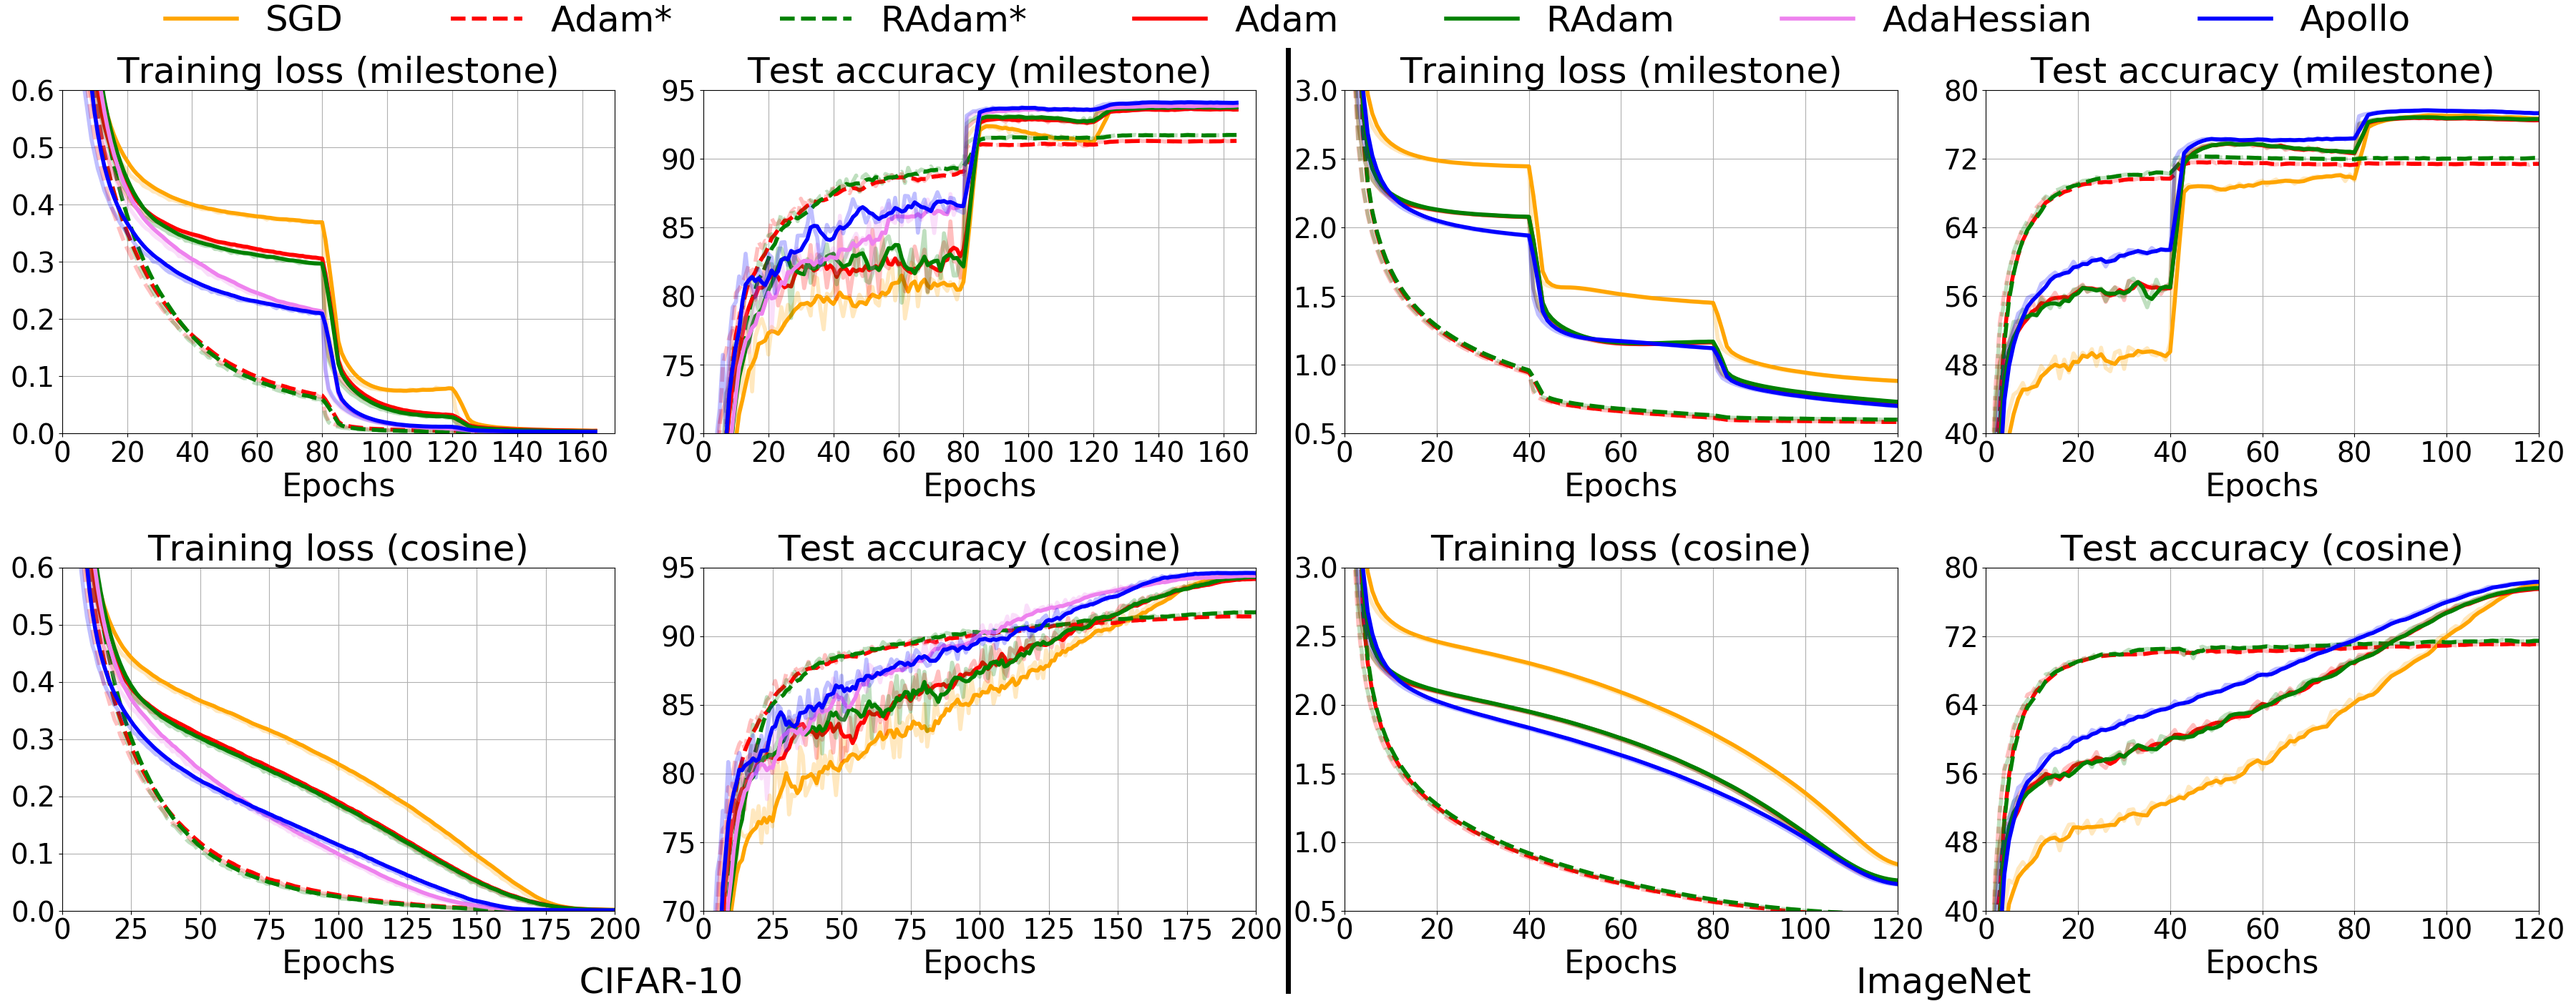
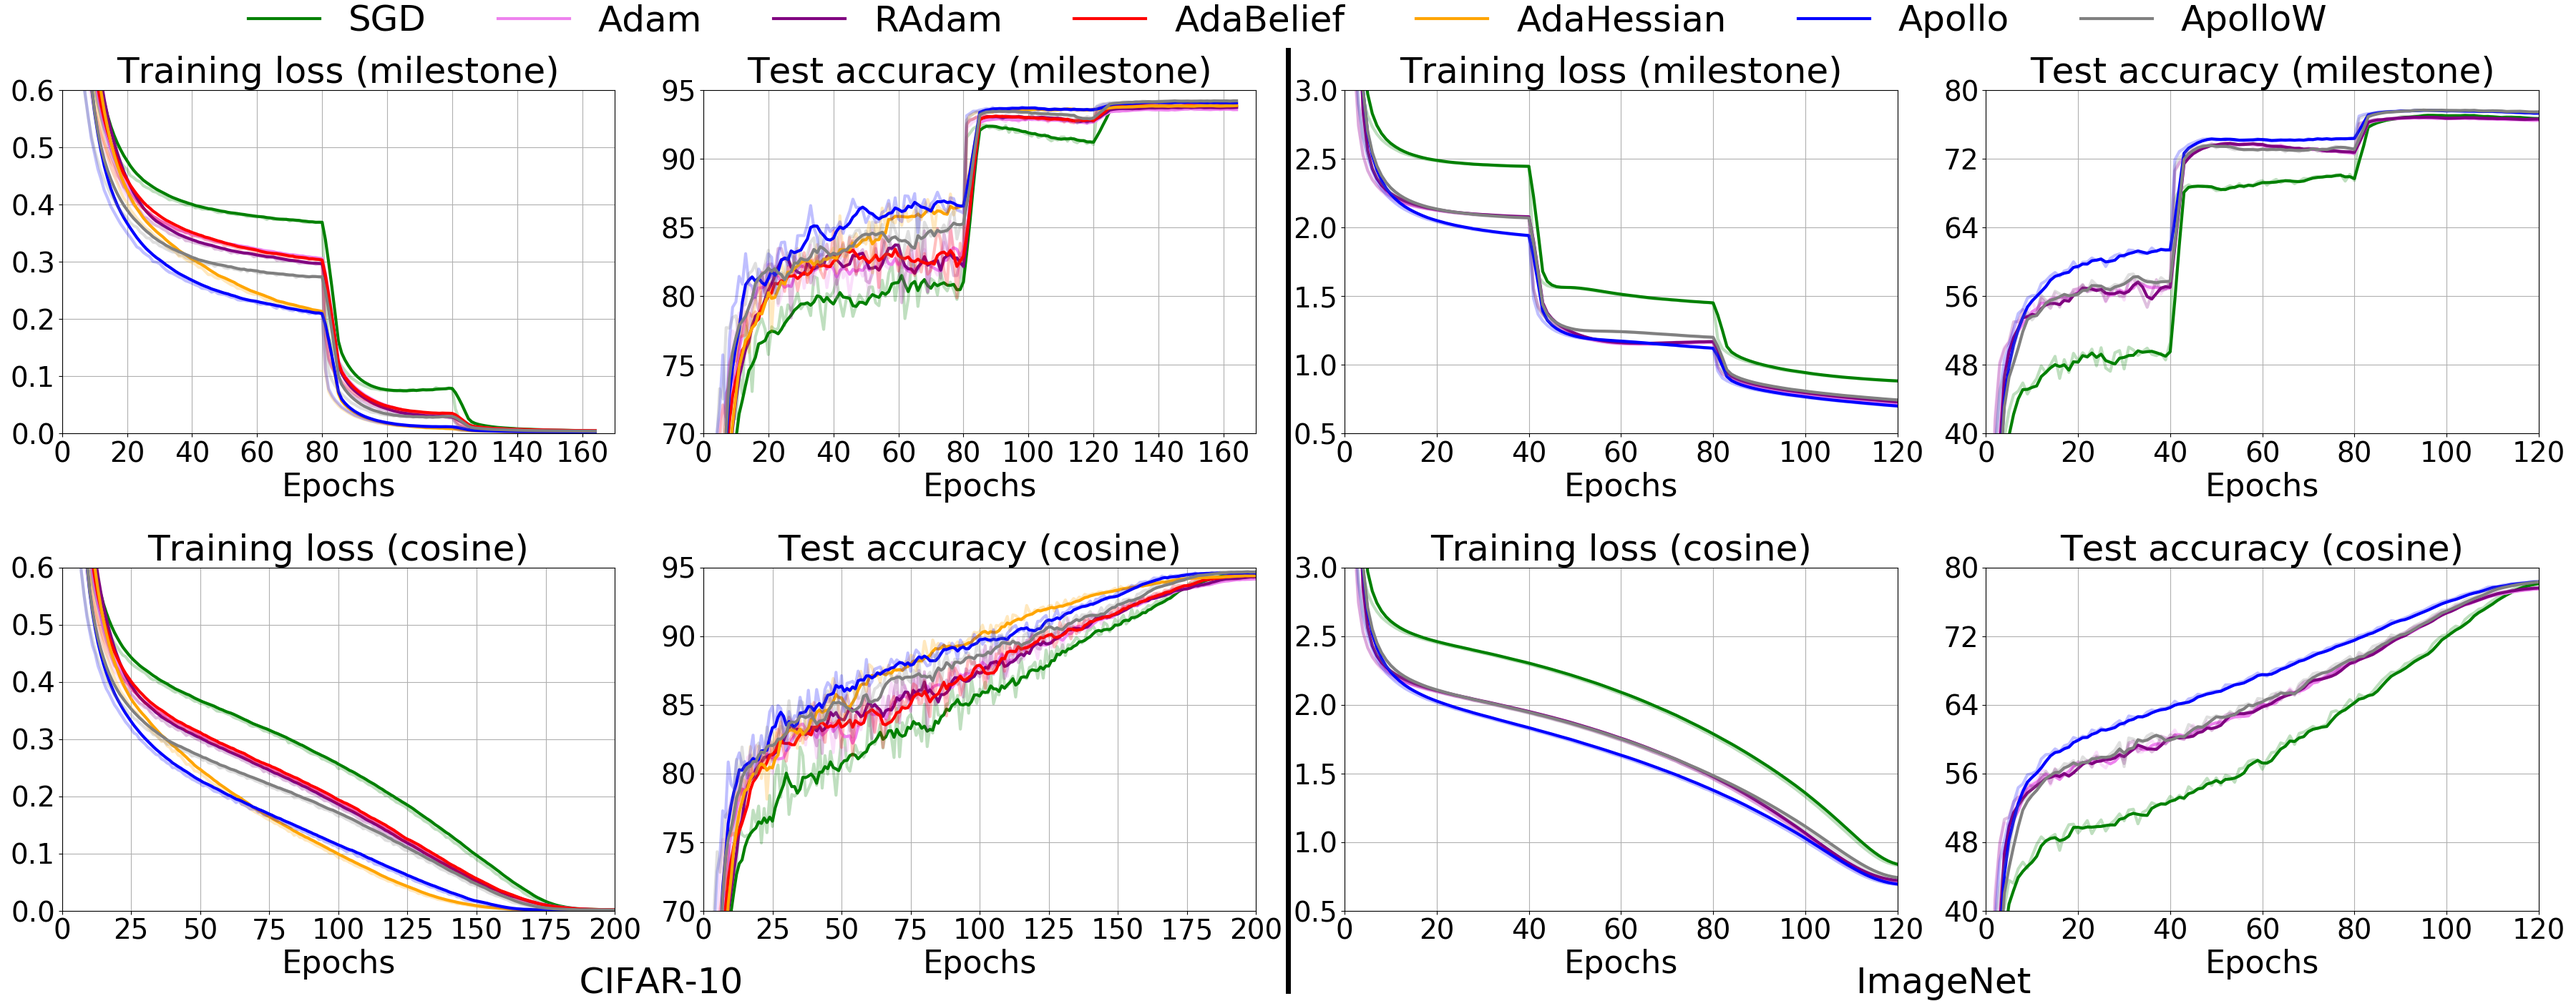
update results and discussions

diff --git a/README.md b/README.md
@@ -38,13 +38,15 @@ This is the Pytorch implementation for [Apollo: An Adaptive Parameter-wise Diago
 | Method     |  CIFAR-10 (%)      |  CIFAR-10 (%)      |  ImageNet (%)      |  ImageNet (%)      |
 | :--------- | :----------------: | :----------------: | :----------------: | :----------------: |
 |            |  **milestone**     |  **cosine**        |  **milestone**     |  **cosine**        |
-| SGD        |  93.94 (0.07)      |  94.53 (0.27)      |  77.47 (0.07)      |  78.22 (0.08)      |
+| SGD        |  93.94 (0.07)      |  94.53 (0.27)      |  77.57 (0.07)      |  78.26 (0.08)      |
 | Adam*      |  91.41 (0.30)      |  91.56 (0.19)      |  71.72 (0.13)      |  71.19 (0.10)      |
 | RAdam*     |  91.80 (0.04)      |  91.88 (0.15)      |  72.37 (0.08)      |  71.64 (0.14)      |
 | Adam       |  93.74 (0.15)      |  94.24 (0.09)      |  76.86 (0.06)      |  77.54 (0.16)      |
 | RAdam      |  93.88 (0.11)      |  94.38 (0.25)      |  76.91 (0.07)      |  77.68 (0.08)      |
+| AdaBelief  |  94.03 (0.11)      |  94.51 (0.07)      |  77.55 (0.07)      |  78.22 (0.11)      |
 | AdaHessian |  93.97 (0.22)      |  94.48 (0.17)      |   ---              |   ---              |
 | **Apollo** |  **94.21 (0.08)**  |  **94.64 (0.09)**  |  **77.85 (0.07)**  |  **78.45 (0.06)**  |
+| **ApolloW**|  **94.34 (0.12)**  |  **94.76 (0.07)**  |  **77.86 (0.09)**  |  **78.48 (0.07)**  |
 
 We use [ResNet-110](https://github.com/bearpaw/pytorch-classification) for CIFAR-10 and standard ResNext-50 for ImageNet. 
 Note that ResNet-110 is a modified version of ResNet-18 to adapt the small image size ```32x32``` in CIFAR-10.
@@ -62,8 +64,10 @@ For the model training of image classification, please go to this [folder](https
 |  RAdam*    |   0.001    |      5e-4      |         True            |  1e-8   |        0         |     NA    |
 |  Adam      |   0.001    |      2.5e-1    |         True            |  1e-8   |        0         |     NA    |
 |  RAdam     |   0.001    |      2.5e-1    |         True            |  1e-8   |        0         |     NA    |
+|  AdaBeleif |   0.001    |      2.5e-1    |         True            |  1e-8   |        0         |     NA    |
 |  AdaHessian|   0.15     |      1e-3      |         True            |  1e-2   |       200        |    0.001  |
 |  Apollo    |   1.0      |      2.5e-4    |         False           |  1e-4   |       200        |    0.01   |
+|  Apollow   |   1.0      |      2.5e-4    |         True            |  1e-4   |       200        |    0.01   |
 
 **ResNext-50 on ImageNet**
 
@@ -74,18 +78,22 @@ For the model training of image classification, please go to this [folder](https
 |  RAdam*    |   0.001    |      1e-4      |         True            |  1e-8   |        0         |     NA    |
 |  Adam      |   0.001    |      1e-1      |         True            |  1e-8   |        0         |     NA    |
 |  RAdam     |   0.001    |      1e-1      |         True            |  1e-8   |        0         |     NA    |
+|  Adabelief |   0.001    |      1e-1      |         True            |  1e-8   |        0         |     NA    |
 |  Apollo    |   1.0      |      1e-4      |         False           |  1e-4   |       200        |    0.01   |
+|  ApolloW   |   1.0      |      1e-4      |         True            |  1e-4   |       200        |    0.01   |
 
-Note that decoupled weight decay is applied to both Adam and RAdam. 
-To adjust the weight decay rates of Adam and RAdam, we multiply the original rate with ```500```, which is the ratio of ```lr_apollo / lr_adam```.
+Note that decoupled weight decay is applied to Adam, RAdam and AdaBelief. 
+
 
 ### Language Modeling
 <img src="./docs/images/language_model.png" width="1000"/>
 
 | Method     |  Test PPL        |
 | :--------- | :--------------: |
+| SGD        |  32.65 (0.13)    |
 | Adam       |  36.68 (0.21)    |
 | RAdam      |  36.20 (0.38)    |
+| AdaBelief  |  32.83 (0.18)    |
 | **Apollo** | **31.94 (0.09)** |
 
 We use 2-layer LSTMs with ```2048``` hidden size on [One Billion Words](https://www.statmt.org/lm-benchmark/).
@@ -94,13 +102,15 @@ For the model training of language modeling, please go to this [folder](https://
 
 **2-layer LSTM on One Billion Words**
 
-|  Method    |    lr      |  weight decay  |  decoupled weight decay |  warmup updates  |  init_lr  |  gradient clip  |
-| :--------- | :--------: | :------------: | :---------------------: | :--------------: | :-------: | :-------------: |
-|  Adam      |   0.001    |      0         |         True            |        0         |     NA    |      1.0        |
-|  RAdam     |   0.001    |      0         |         True            |        0         |     NA    |      1.0        |
-|  Apollo    |   10.0     |      0         |         False           |       400        |    0.01   |      1.0        |
+|  Method    |    lr      |  weight decay  |  decoupled weight decay |  eps    |  warmup updates  |  init_lr  |  gradient clip  |
+| :--------- | :--------: | :------------: | :---------------------: | :-----: | :--------------: | :-------: | :-------------: |
+|  SGD       |   0.5      |      0         |         False           |   NA    |        0         |     NA    |      1.0        |
+|  Adam      |   0.001    |      0         |         True            |  1e-8   |        0         |     NA    |      1.0        |
+|  RAdam     |   0.001    |      0         |         True            |  1e-8   |        0         |     NA    |      1.0        |
+|  AdaBelief |   0.001    |      0         |         True            |  1e-12  |        0         |     NA    |      1.0        |
+|  Apollo    |   10.0     |      0         |         False           |  1e-4   |       400        |    0.01   |      1.0        |
 
-Since the weight decay rate is zero for all the optimizers, there is no difference of decoupled weight decay.
+Since the weight decay rate is zero for all the optimizers, there is no difference between standard L2 regularization and decoupled weight decay.
 
 ### Neural Machine Translation
 
@@ -109,6 +119,7 @@ Since the weight decay rate is zero for all the optimizers, there is no differen
 | SGD        |  26.59 (0.07)    |
 | Adam       |  27.84 (0.12)    |
 | RAdam      |  28.15 (0.15)    |
+| AdaBelief  |  28.14 (0.11)    |
 | **Apollo** | **28.34 (0.10)** |
 
 We use the Transformer-base models.
@@ -117,25 +128,37 @@ For the details of NMT experiments, please go to this [repo](https://github.com/
 
 **Transformer-base on WMT-14 En-De**
 
-|  Method    |    lr      |  weight decay  |  decoupled weight decay |    lr scheduler     |  warmup updates  |  init_lr  |  gradient clip  |
-| :--------- | :--------: | :------------: | :---------------------: | :-----------------: | :--------------: | :-------: | :-------------: |
-|  SGD       |   0.1      |      1e-6      |         False           |      milestone      |       1000       |    1e-4   |      1.0        |
-|  Adam      |   0.0005   |      1e-4      |         True            |    inverse sqrt     |       4000       |    1e-7   |      1.0        |
-|  RAdam     |   0.0005   |      1e-4      |         True            |      milestone      |        0         |     NA    |      1.0        |
-|  Apollo    |   10.0     |      1e-8      |         False           |      milestone      |       1000       |    0.01   |      1.0        |
+|  Method    |    lr      |  weight decay  |  decoupled weight decay |   eps   |    lr scheduler     |  warmup updates  |  init_lr  |  gradient clip  |
+| :--------- | :--------: | :------------: | :---------------------: | :-----: | :-----------------: | :--------------: | :-------: | :-------------: |
+|  SGD       |   0.1      |      1e-6      |         False           |    NA   |      milestone      |       1000       |    1e-4   |      1.0        |
+|  Adam      |   0.0005   |      1e-4      |         True            |   1e-8  |    inverse sqrt     |       4000       |    1e-7   |      1.0        |
+|  RAdam     |   0.0005   |      1e-4      |         True            |   1e-8  |      milestone      |        0         |     NA    |      1.0        |
+|  AdaBelief |   0.0005   |      1e-4      |         True            |  1e-16  |      milestone      |       1000       |    1e-7   |      1.0        |
+|  Apollo    |   10.0     |      1e-8      |         False           |   1e-4  |      milestone      |       1000       |    0.01   |      1.0        |
 
 ## Discussion
 **1. Weight Decay:**
 
-- The strength of `weight decay` has significant impact on both the performance of convergence speed and generalization accuracy.
-Moreover, different implementations of `weight decay`, such as the decoupled version, lead to very different regularization strength with the same `weight decay rate`.
+-  The strength of `weight decay` has significant impact on both the performance of convergence speed and generalization accuracy.
 Thus, as discussed in the paper, we suggest to consider the effect of regularization strength when we analyze the performance of different optimization methods.
+
+- For adaptive optimizers, including Adam, RAdam and AdaBelief, different implementations of `weight decay`, such as the decoupled version, lead to very different regularization strength with the same `weight decay rate`.
+Interestingly, Apollo is much more consistent with different implementations of `weight decay` (Apollo and ApolloW achieves similar performance with the same hyper-parameters).
 
 - In this paper, for fair comparison, we comprehensively tune the `learning rate` and the `weight decay rate` for all the optimizers on CIFAR-10. 
 For ImageNet, due to the resource limits, we kept all the hyper-parameters selected from CIFAR-10 for each optimizer, and only tuned the `weight decay rate`.
 One motivation of this is to test the consistency of hyper-parameters of these optimizers on different tasks.
 
 - We analyzed the effect of different `weight decay rates` on different optimizers. 
-As illustrated in the figure, Apollo achieves improvements over all the three baselines on convergence speed with different rates of weight decay
+As illustrated in the figure, Apollo achieves improvements over all the three baselines on convergence speed with different rates of weight decay.
 
 <img src="./docs/images/cifar10_wd.png" width="2000"/>
+
+**2. Epsilon:**
+
+We found that AdaBelief is very sensitive to the value of `epsilon`. 
+In our experiments, Adam, RAdam and Apollo used a fixed `epsilon` for different tasks (`1e-8` for Adam and RAdam, and `1e-4` for Apollo).
+But for AdaBelief, we had to finetune `epsilon` for different tasks, e.g. `1e-8` for image classification, `1e-12` for language modeling, and `1e-16` for neural machine translation.
+With other values, the results of AdaBelief are even worse than Adam (e.g, we tried `1e-8` and `1e-16` for language modeling and the PPL points are higher than 37).
+Thus, we suspected that the improvements of AdaBelief over Adam or RAdam mainly come from the fine-tuning of `epsilon`. 
+Similar observations were reported in the [EAdam paper](https://arxiv.org/pdf/2011.02150.pdf).

diff --git a/classification/README.md b/classification/README.md
@@ -27,11 +27,12 @@ python -u cifar.py --depth 110 --batch_size 128 --epochs 200 \
     --dataset cifar10 --data_path <data path> --model_path <model path> \
     --run <run_id> --seed <random seed> 
 ```
-### Adam & RAdam
+### Adam, RAdam & AdaBelief
 #### milestone decay
 ```base
 python -u cifar.py --depth 110 --batch_size 128 --epochs 164 \
-    --opt [adamw|radamw] --lr 0.001 --opt_h1 0.9 --opt_h2 0.999 --eps 1e-8 --weight_decay 2.5e-2 \
+    --opt [adamw|radamw|adabelief] --lr 0.001 --opt_h1 0.9 --opt_h2 0.999 --eps 1e-8 \
+    --weight_decay 2.5e-2 --weight_decay_type 'decoupled' \
     --lr_decay milestone --milestone 80 120 --decay_rate 0.1 \
     --dataset cifar10 --data_path <data path> --model_path <model path> \
     --run <run_id> --seed <random seed> 
@@ -39,7 +40,8 @@ python -u cifar.py --depth 110 --batch_size 128 --epochs 164 \
 #### cosine annealing
 ```base
 python -u cifar.py --depth 110 --batch_size 128 --epochs 200 \
-    --opt [adamw|radamw] --lr 0.001 --opt_h1 0.9 --opt_h2 0.999 --eps 1e-8 --weight_decay 2.5e-2 \
+    --opt [adamw|radamw|adabelief] --lr 0.001 --opt_h1 0.9 --opt_h2 0.999 --eps 1e-8 \
+    --weight_decay 2.5e-2 --weight_decay_type 'decoupled' \
     --lr_decay cosine --last_lr 1e-6 --decay_rate 0.1 \
     --dataset cifar10 --data_path <data path> --model_path <model path> \
     --run <run_id> --seed <random seed> 
@@ -49,7 +51,8 @@ For Adam* & RAdam*, change `--weight_decay` from `2.5e-2` to `5e-4`.
 #### milestone decay
 ```base
 python -u cifar.py --depth 110 --batch_size 128 --epochs 164 \
-    --opt apollo --lr 1.0 --opt_h1 0.9 --eps 1e-4 --weight_decay 2.5e-4 \
+    --opt apollo --lr 1.0 --opt_h1 0.9 --eps 1e-4 \
+    --weight_decay 2.5e-4 --weight_decay_type ['L2'|'decoupled'] \
     --lr_decay milestone --milestone 80 120 --decay_rate 0.1 \
     --warmup_updates 200 --init_lr 0.01 \
     --dataset cifar10 --data_path <data path> --model_path <model path> \
@@ -58,7 +61,8 @@ python -u cifar.py --depth 110 --batch_size 128 --epochs 164 \
 #### cosine annealing
 ```base
 python -u cifar.py --depth 110 --batch_size 128 --epochs 200 \
-    --opt apollo --lr 1.0 --opt_h1 0.9 --eps 1e-4 --weight_decay 2.5e-4 \
+    --opt apollo --lr 1.0 --opt_h1 0.9 --eps 1e-4 \
+    --weight_decay 2.5e-4 --weight_decay_type ['L2'|'decoupled'] \
     --lr_decay cosine --last_lr 0.001 --decay_rate 0.1 \
     --warmup_updates 200 --init_lr 0.01 \
     --dataset cifar10 --data_path <data path> --model_path <model path> \
@@ -87,12 +91,13 @@ python -u imagenet.py --nproc_per_node 8 --master_addr <ip addr> --master_port <
     --data_path <data path> --model_path <model path> \
     --run <run_id> --seed <random seed> 
 ```
-### Adam & RAdam
+### Adam, RAdam & AdaBelief
 #### milestone decay
 ```base
 python -u imagenet.py --nproc_per_node 8 --master_addr <ip addr> --master_port <port> \
     --arch resnext50 --batch_size 256 --epochs 120 \
-    --opt [adamw|radamw] --lr 0.001 --opt_h1 0.9 --opt_h2 0.999 --eps 1e-8 --weight_decay 1e-1 \
+    --opt [adamw|radamw|adabelief] --lr 0.001 --opt_h1 0.9 --opt_h2 0.999 --eps 1e-8 \
+    --weight_decay 1e-1 --weight_decay_type 'decoupled' \
     --lr_decay milestone --milestone 40 80 --decay_rate 0.1 \
     --data_path <data path> --model_path <model path> \
     --run <run_id> --seed <random seed> 
@@ -101,7 +106,8 @@ python -u imagenet.py --nproc_per_node 8 --master_addr <ip addr> --master_port <
 ```base
 python -u imagenet.py --nproc_per_node 8 --master_addr <ip addr> --master_port <port> \
     --arch resnext50 --batch_size 256 --epochs 120 \
-    --opt [adamw|radamw] --lr 0.001 --opt_h1 0.9 --opt_h2 0.999 --eps 1e-8 --weight_decay 1e-1 \
+    --opt [adamw|radamw|adabelief] --lr 0.001 --opt_h1 0.9 --opt_h2 0.999 --eps 1e-8 \
+    --weight_decay 1e-1 --weight_decay_type 'decoupled' \
     --lr_decay cosine --last_lr 1e-6 --decay_rate 0.1 \
     --data_path <data path> --model_path <model path> \
     --run <run_id> --seed <random seed> 
@@ -112,7 +118,8 @@ For Adam* & RAdam*, change `--weight_decay` from `1e-1` to `1e-4`.
 ```base
 python -u imagenet.py --nproc_per_node 8 --master_addr <ip addr> --master_port <port> \
     --arch resnext50 --batch_size 256 --epochs 120 \
-    --opt apollo --lr 1.0 --opt_h1 0.9 --eps 1e-4 --weight_decay 1e-4 \
+    --opt apollo --lr 1.0 --opt_h1 0.9 --eps 1e-4 \
+    --weight_decay 1e-4 --weight_decay_type ['L2'|'decoupled'] \
     --lr_decay milestone --milestone 40 80 --decay_rate 0.1 \
     --warmup_updates 200 --init_lr 0.01 \
     --data_path <data path> --model_path <model path> \
@@ -122,7 +129,8 @@ python -u imagenet.py --nproc_per_node 8 --master_addr <ip addr> --master_port <
 ```base
 python -u imagenet.py --nproc_per_node 8 --master_addr <ip addr> --master_port <port> \
     --arch resnext50 --batch_size 256 --epochs 120 \
-    --opt apollo --lr 1.0 --opt_h1 0.9 --eps 1e-4 --weight_decay 1e-4 \
+    --opt apollo --lr 1.0 --opt_h1 0.9 --eps 1e-4 \
+    --weight_decay 1e-4 --weight_decay_type ['L2'|'decoupled'] \
     --lr_decay cosine --last_lr 0.001 --decay_rate 0.1 \
     --warmup_updates 200 --init_lr 0.01 \
     --data_path <data path> --model_path <model path> \
